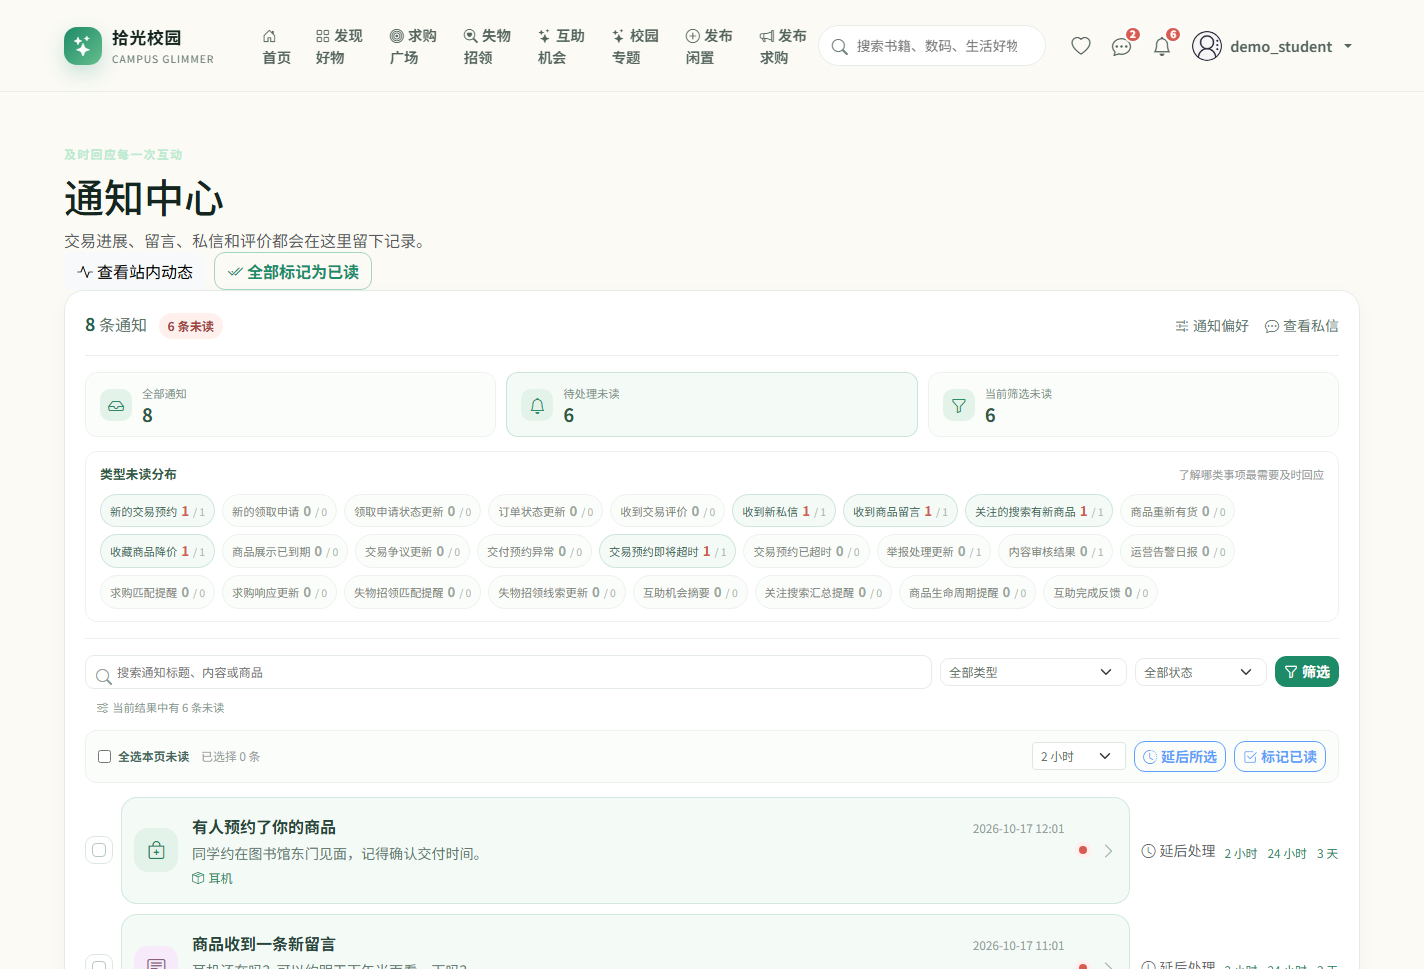
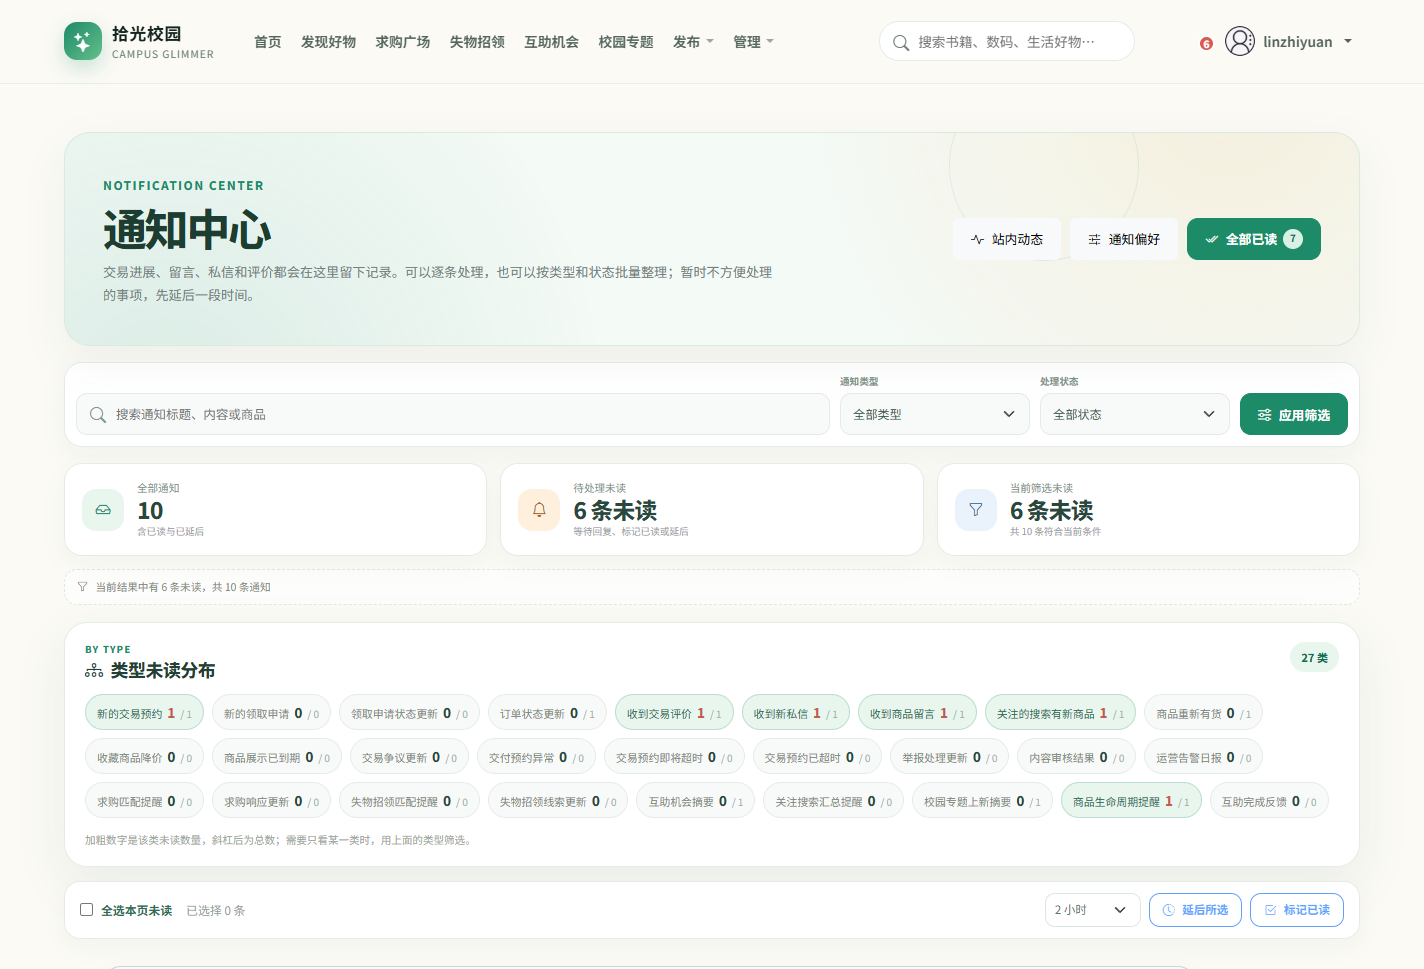
文档：更新界面截图与页面命名
截图库增至十张：新增贡献中心，通知中心与公开档案按 1424×969 基准
重拍，画廊重排为登录、核心流程、账户相关、运营看板的阅读顺序。

各文档中“消息中心 / 个人资料 / 账户资料”等旧称呼统一为“消息工作台 /
账户中心”，与当前页面命名保持一致；listings 说明补充贡献中心入口。

diff --git a/docs/screenshots/README.md b/docs/screenshots/README.md
@@ -4,7 +4,7 @@
 
 # screenshots · 系统界面预览
 
-**九张当前主分支的真实页面截图，覆盖浏览、交易、账户、消息和运营五类入口。**
+**十张当前主分支的真实页面截图，覆盖浏览、交易、账户、消息和运营五类入口。**
 
 [项目首页](../../README.md) · [完整项目手册](../README.md) · [模块地图](../module-map.md)
 
@@ -48,21 +48,27 @@
 <p align="center"><strong>账户中心</strong><br /><sub>校园认证、可信资料、贡献进度与活动入口</sub></p>
 </td>
 <td width="50%" valign="top">
-<a href="public-profile.png"><img src="public-profile.png" alt="公开交易档案，展示公开资料、交易表现和校园互助反馈" width="100%" /></a>
-<p align="center"><strong>公开交易档案</strong><br /><sub>公开信誉、贡献、在售商品和评价摘要</sub></p>
+<a href="contributions.png"><img src="contributions.png" alt="贡献中心，展示互助等级、贡献进度、徽章墙和最近贡献事件" width="100%" /></a>
+<p align="center"><strong>贡献中心</strong><br /><sub>等级、贡献进度、徽章解锁与最近互助记录</sub></p>
 </td>
 </tr>
 <tr>
 <td width="50%" valign="top">
+<a href="public-profile.png"><img src="public-profile.png" alt="公开交易档案，展示公开资料、交易表现和校园互助反馈" width="100%" /></a>
+<p align="center"><strong>公开交易档案</strong><br /><sub>公开信誉、贡献、在售商品和评价摘要</sub></p>
+</td>
+<td width="50%" valign="top">
 <a href="inbox.png"><img src="inbox.png" alt="消息工作台，展示未读统计、搜索筛选、会话列表和批量已读" width="100%" /></a>
 <p align="center"><strong>消息工作台</strong><br /><sub>会话整理、未读聚焦、收到与发出视图</sub></p>
 </td>
-<td width="50%" valign="top">
-<a href="operations.png"><img src="operations.png" alt="运营数据概览，展示供给、搜索、预约、互助和看板构建耗时" width="100%" /></a>
-<p align="center"><strong>运营看板</strong><br /><sub>管理员视角下的指标、告警和构建观测</sub></p>
-</td>
 </tr>
 </table>
+
+<p align="center">
+  <a href="operations.png"><img src="operations.png" alt="运营数据概览，展示供给、搜索、预约、互助和看板构建耗时" width="100%" /></a>
+</p>
+
+<p align="center"><strong>运营看板</strong><br /><sub>管理员视角下的指标、告警和构建观测 · 本地演示数据</sub></p>
 
 点击图片可查看原始尺寸。
 
@@ -77,6 +83,7 @@
 | [`notifications.png`](notifications.png) | `1424 × 969` | 通知中心；未读统计、类型分布和批量操作 |
 | [`profile.png`](profile.png) | `1424 × 969` | 账户中心；校园认证、贡献、联系方式与活动入口 |
 | [`public-profile.png`](public-profile.png) | `1424 × 969` | 公开档案；公开信誉、互助反馈和在售摘要 |
+| [`contributions.png`](contributions.png) | `1424 × 969` | 贡献中心；等级、贡献进度、徽章与最近贡献 |
 | [`inbox.png`](inbox.png) | `1424 × 969` | 消息工作台；未读统计、搜索筛选、会话与批量已读 |
 | [`operations.png`](operations.png) | `1424 × 969` | 运营看板；管理员指标、告警和构建耗时 |
 

diff --git a/docs/README.md b/docs/README.md
@@ -60,12 +60,12 @@
 </tr>
 <tr>
 <td width="50%" valign="top">
-<img src="screenshots/inbox.png" alt="消息中心，展示会话、未读统计和批量已读" width="100%" />
-<p align="center"><strong>消息中心</strong><br /><sub>会话、未读状态与批量操作</sub></p>
+<img src="screenshots/inbox.png" alt="消息工作台，展示会话、未读统计和批量已读" width="100%" />
+<p align="center"><strong>消息工作台</strong><br /><sub>会话、未读状态与批量操作</sub></p>
 </td>
 <td width="50%" valign="top">
-<img src="screenshots/profile.png" alt="个人资料页，展示账户、校园身份和互助贡献" width="100%" />
-<p align="center"><strong>账户资料</strong><br /><sub>校园身份、贡献与活动入口</sub></p>
+<img src="screenshots/profile.png" alt="账户中心，展示校园认证、互助贡献、联系方式和个人活动入口" width="100%" />
+<p align="center"><strong>账户中心</strong><br /><sub>校园身份、贡献与活动入口</sub></p>
 </td>
 </tr>
 </table>
@@ -237,7 +237,7 @@ python manage.py runserver
 | 商品列表 | <http://127.0.0.1:8000/listings/> |
 | 搜索 | <http://127.0.0.1:8000/listings/search/> |
 | 我的订单 | <http://127.0.0.1:8000/listings/orders/> |
-| 消息中心 | <http://127.0.0.1:8000/messages/inbox/> |
+| 消息工作台 | <http://127.0.0.1:8000/messages/inbox/> |
 | 站内通知 | <http://127.0.0.1:8000/listings/notifications/> |
 | 校园专题 | <http://127.0.0.1:8000/listings/campaigns/> |
 | 我的专题足迹 | <http://127.0.0.1:8000/listings/campaigns/mine/> |

diff --git a/README.md b/README.md
@@ -60,7 +60,7 @@
 
 <p align="center"><strong>运营看板 · 把校园交易现场变成可解释的运营信号</strong><br /><sub>供给、需求、搜索、交付、互助与告警共用同一套指标口径 · 本地演示数据</sub></p>
 
-<p align="center"><sub>全部截图来自当前本地页面与演示数据；登录、通知、公开档案等更多界面见 <a href="docs/screenshots/README.md">系统界面预览</a></sub></p>
+<p align="center"><sub>全部截图来自当前本地页面与演示数据；登录、通知、贡献中心、公开档案等更多界面见 <a href="docs/screenshots/README.md">系统界面预览</a></sub></p>
 
 ---
 
@@ -232,7 +232,7 @@ python init_data.py
 | 发现好物 | <http://127.0.0.1:8000/listings/> |
 | 搜索 | <http://127.0.0.1:8000/listings/search/> |
 | 我的交易 | <http://127.0.0.1:8000/listings/orders/> |
-| 消息中心 | <http://127.0.0.1:8000/messages/inbox/> |
+| 消息工作台 | <http://127.0.0.1:8000/messages/inbox/> |
 | 通知中心 | <http://127.0.0.1:8000/listings/notifications/> |
 | 校园专题 | <http://127.0.0.1:8000/listings/campaigns/> |
 | 我的专题足迹 | <http://127.0.0.1:8000/listings/campaigns/mine/> |

diff --git a/listings/README.md b/listings/README.md
@@ -47,6 +47,12 @@ flowchart LR
 <p align="center"><strong>通知中心</strong><br /><sub>未读统计、类型分布、筛选与批量处理</sub></p>
 </td>
 </tr>
+<tr>
+<td colspan="2" valign="top">
+<a href="../docs/screenshots/contributions.png"><img src="../docs/screenshots/contributions.png" alt="贡献中心，展示互助等级、贡献进度、徽章墙和最近贡献事件" width="100%" /></a>
+<p align="center"><strong>贡献中心</strong><br /><sub>等级、贡献进度、徽章解锁与最近互助记录 · 本地演示数据</sub></p>
+</td>
+</tr>
 </table>
 
 <p align="center">

diff --git a/chat_messages/README.md b/chat_messages/README.md
@@ -34,7 +34,7 @@
 </tr>
 </table>
 
-> 截图分别来自商品详情、消息中心和通知中心，用来说明三条实际的用户沟通入口。所有账号、消息和商品均为本地演示数据。
+> 截图分别来自商品详情、消息工作台和通知中心，用来说明三条实际的用户沟通入口。所有账号、消息和商品均为本地演示数据。
 ## 🧭 一条消息如何被处理
 
 ```mermaid
